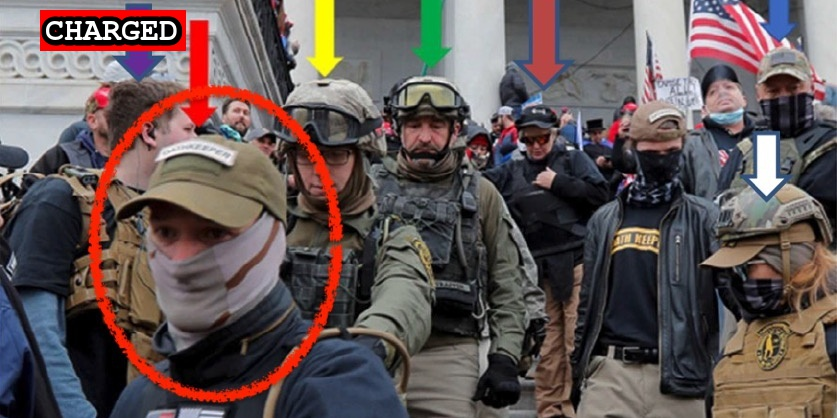
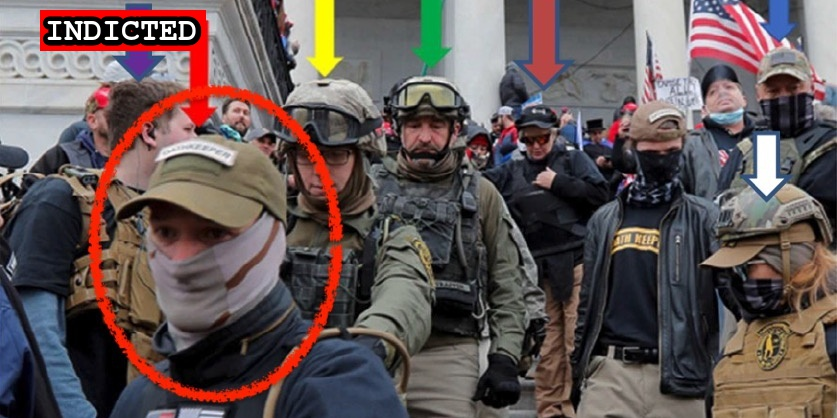
Latest import

Changed region(s): [[0.0311, 0.0, 0.2485, 0.1244]]

diff --git a/commands/common/suspect.ts b/commands/common/suspect.ts
@@ -182,11 +182,13 @@ export const updateSuspect = (suspect: Suspect) => {
   lines.push(`published: ${suspect.published.toString()}`)
   lines.push(`caseNumber: ${suspect.caseNumber}`)
   lines.push(`charges:`)
-  for (const {code, title, url, felony} of Object.values(suspect.charges)) {
-    lines.push(`- code: ${code}`)
-    lines.push(`  title: ${title}`)
-    lines.push(`  url: ${url}`)
-    lines.push(`  felony: ${felony}`)
+  if (suspect.charges) {
+    for (const {code, title, url, felony} of Object.values(suspect.charges)) {
+      lines.push(`- code: ${code}`)
+      lines.push(`  title: ${title}`)
+      lines.push(`  url: ${url}`)
+      lines.push(`  felony: ${felony}`)
+    }
   }
   lines.push('---')
 

diff --git a/docs/_suspects/glenn-croy.md b/docs/_suspects/glenn-croy.md
@@ -3,13 +3,13 @@ name: Glenn Croy
 lastName: Croy
 aka: Wes Croy
 residence: Colorado
-status: Charged
+status: Convicted
 date: 2021-02-17
 charged: 2021-02-17
 indicted:
-convicted: 
-sentenced: 
-dismissed: 
+convicted: 2021-08-09
+sentenced:
+dismissed:
 deceased:
 age: 55
 occupation:
@@ -29,8 +29,15 @@ author: seditiontrack
 layout: suspect
 published: true
 caseNumber: 1:21-cr-162
+charges:
+  - code: '18 USC § 5104(e)(2)(G)'
+    title: 'Parading, Demonstrating or Picketing in a Capitol Building'
+    url: 'https://www.law.cornell.edu/uscode/text/40/5104'
+    felony: false
 ---
+
 - [News Report](https://denver.cbslocal.com/2021/02/17/glenn-wes-lee-croy-capitol-riot/)
-- [Statement of Facts](https://www.justice.gov/usao-dc/case-multi-defendant/file/1371331/download)
+- [Statement of Facts](https://www.justice.gov/usao-dc/case-multi-defendant/file/1422526/download)
 - [DOJ Press Release](https://www.justice.gov/usao-dc/case-multi-defendant/file/1377836/download)
 - [Information](https://www.justice.gov/usao-dc/case-multi-defendant/file/1377836/download)
+- [Plea Agreement](https://www.justice.gov/usao-dc/case-multi-defendant/file/1422521/download)

diff --git a/docs/_suspects/brian-ulrich.md b/docs/_suspects/brian-ulrich.md
@@ -1,0 +1,36 @@
+---
+name: Brian Ulrich
+lastName: Ulrich
+aka: '#FlagOK'
+residence: Texas
+status: Indicted
+date: 2021-08-04
+charged: 2021-08-04
+indicted: 2021-08-04
+convicted:
+sentenced:
+dismissed:
+deceased:
+age: 43
+occupation:
+affiliations:
+jurisdiction: Federal
+image: /images/preview/brian-ulrich.png
+suspect: brian-ulrich.png
+booking:
+courtroom:
+courthouse:
+raid:
+perpwalk:
+quote: 'I will be the guy running around with the budget AR'
+title: Brian Ulrich charged on August 4, 2021
+description: Click for latest case details. Suspects innocent until proven guilty.
+author: seditiontrack
+layout: suspect
+published: true
+caseNumber:
+charges:
+---
+
+- [News Report](https://www.nytimes.com/interactive/2021/02/14/us/roger-stone-capitol-riot.html)
+- [Indictment](https://extremism.gwu.edu/sites/g/files/zaxdzs2191/f/Caldwell%20et%20al%20Fifth%20Superseding%20Indictment.pdf)

diff --git a/docs/_suspects/david-moerschel.md b/docs/_suspects/david-moerschel.md
@@ -3,13 +3,14 @@ name: David Moerschel
 lastName: Moerschel
 aka: Hatsy
 residence: Florida
-status: Charged
+status: Indicted
 date: 2021-07-01
 charged: 2021-07-01
-indicted:
+indicted: 2021-08-04
 convicted:
 sentenced:
 dismissed:
+deceased:
 age: 43
 occupation:
 affiliations: Oath Keepers
@@ -27,7 +28,10 @@ description: Click for latest case details. Suspects innocent until proven guilt
 author: seditiontrack
 layout: suspect
 published: true
+caseNumber:
+charges:
 ---
 
 - [News Report](https://www.washingtonpost.com/local/legal-issues/oathkeeper-arrested-david-moerschel/2021/07/02/0f54d5aa-db5d-11eb-9bbb-37c30dcf9363_story.html)
 - [Statement of Facts](https://www.justice.gov/usao-dc/case-multi-defendant/file/1408901/download)
+- [Indictment](https://extremism.gwu.edu/sites/g/files/zaxdzs2191/f/Caldwell%20et%20al%20Fifth%20Superseding%20Indictment.pdf)
